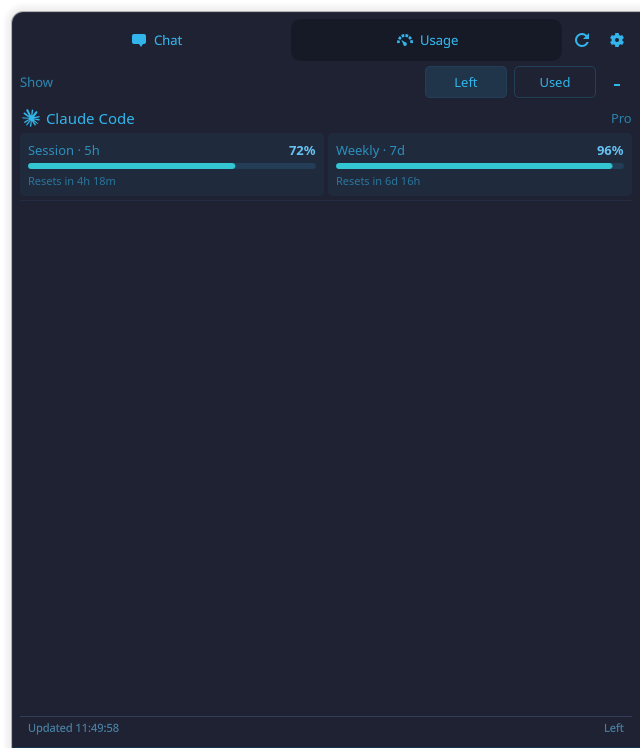
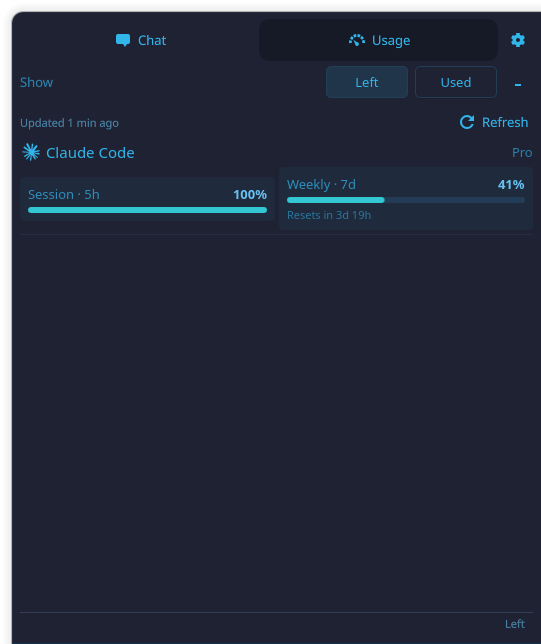
docs: refresh Usage and General screenshots; add AI Provider Settings and hover popup

diff --git a/README.md b/README.md
@@ -35,11 +35,15 @@ plasmashell's memory.
 </tr>
 <tr>
 <td align="center"><img src="docs/chat-locked.png" alt="Locked encrypted sign-ins card with Unlock and private-session buttons" width="400"><br><sub>Encrypted sign-ins, locked</sub></td>
-<td align="center"><img src="docs/usage.png" alt="Usage tab with Claude Code session and weekly meters" width="400"><br><sub>Usage meters</sub></td>
+<td align="center"><img src="docs/usage.png" alt="Usage tab with the last-updated time, a Refresh button, and Claude Code session and weekly meters" width="400"><br><sub>Usage meters</sub></td>
 </tr>
 <tr>
 <td align="center"><img src="docs/settings-general.png" alt="Settings, General page: popup, usage and privacy options" width="400"><br><sub>Settings → General</sub></td>
 <td align="center"><img src="docs/settings-chat.png" alt="Settings, Chat page: the list of chat sites" width="400"><br><sub>Settings → Chat</sub></td>
+</tr>
+<tr>
+<td align="center"><img src="docs/settings-providers.png" alt="Settings, AI Provider Settings page: compact layout, warning colours, and the provider list with order arrows, Track switches and reading checkboxes" width="400"><br><sub>Settings → AI Provider Settings</sub></td>
+<td align="center"><img src="docs/settings-hover.png" alt="Settings, AI Provider Settings page, hover popup section: show usage and reset time on the panel icon, and the readings chosen for each provider" width="400"><br><sub>Settings → AI Provider Settings → Hover popup</sub></td>
 </tr>
 </table>
 
